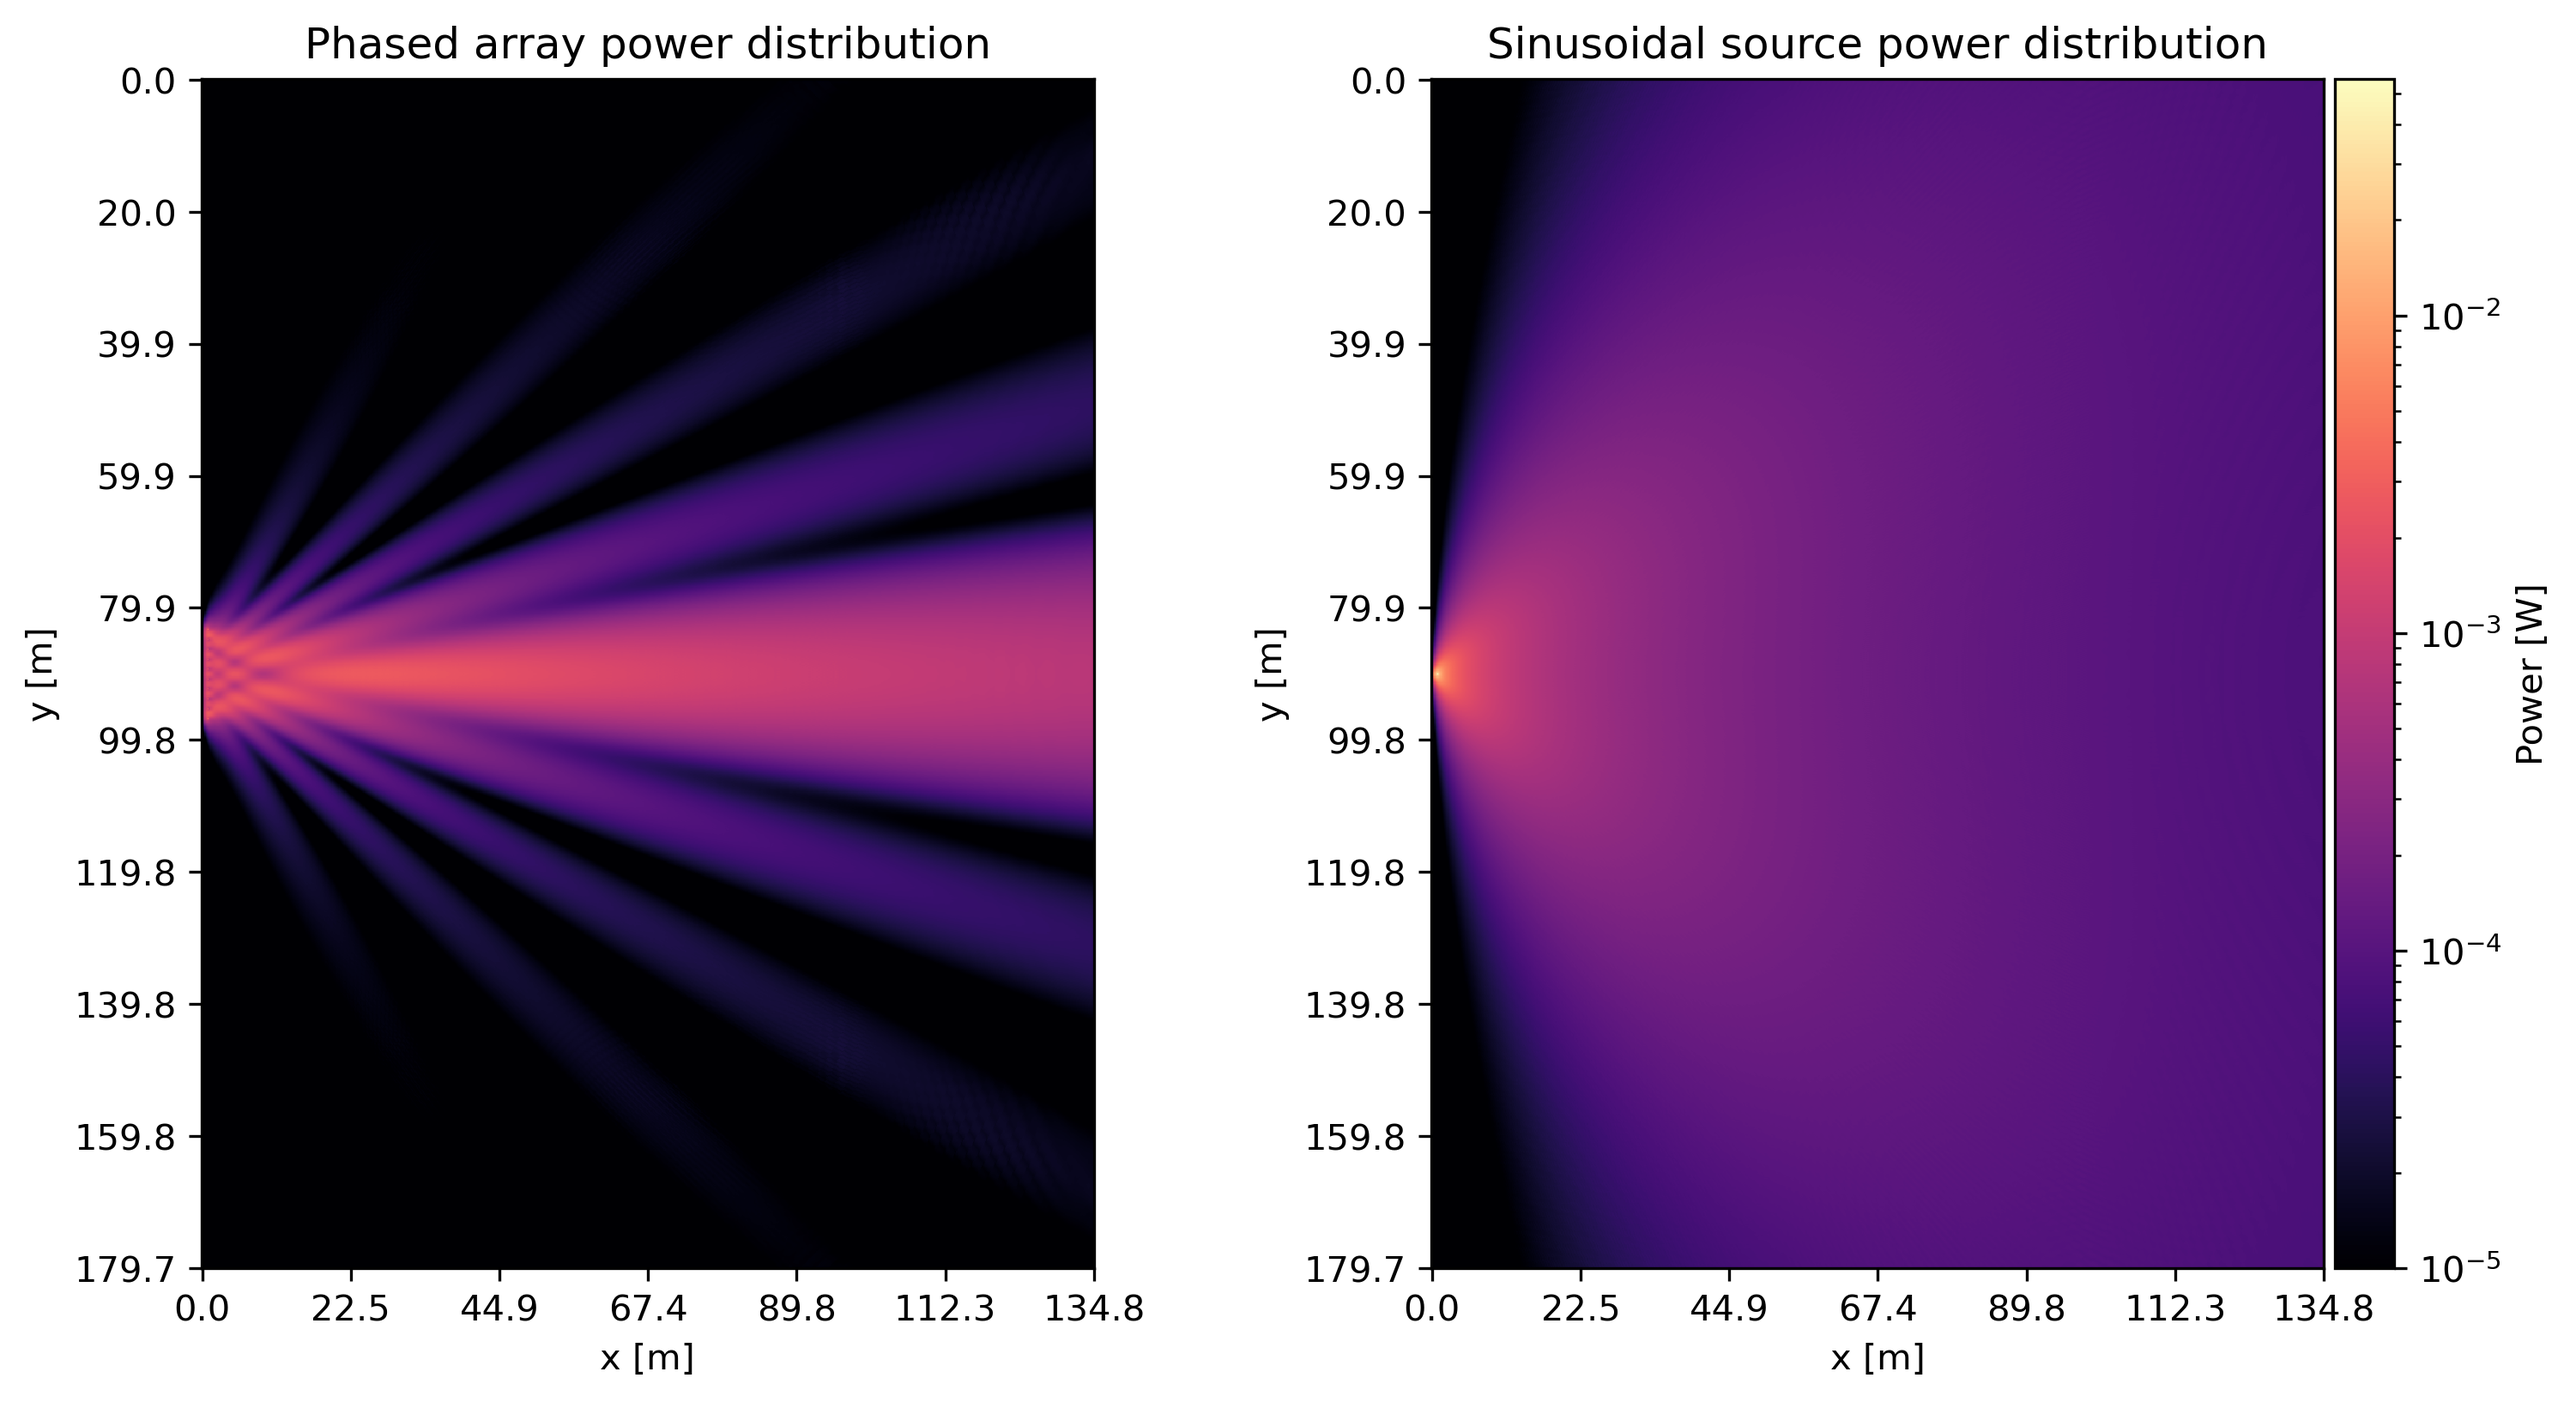
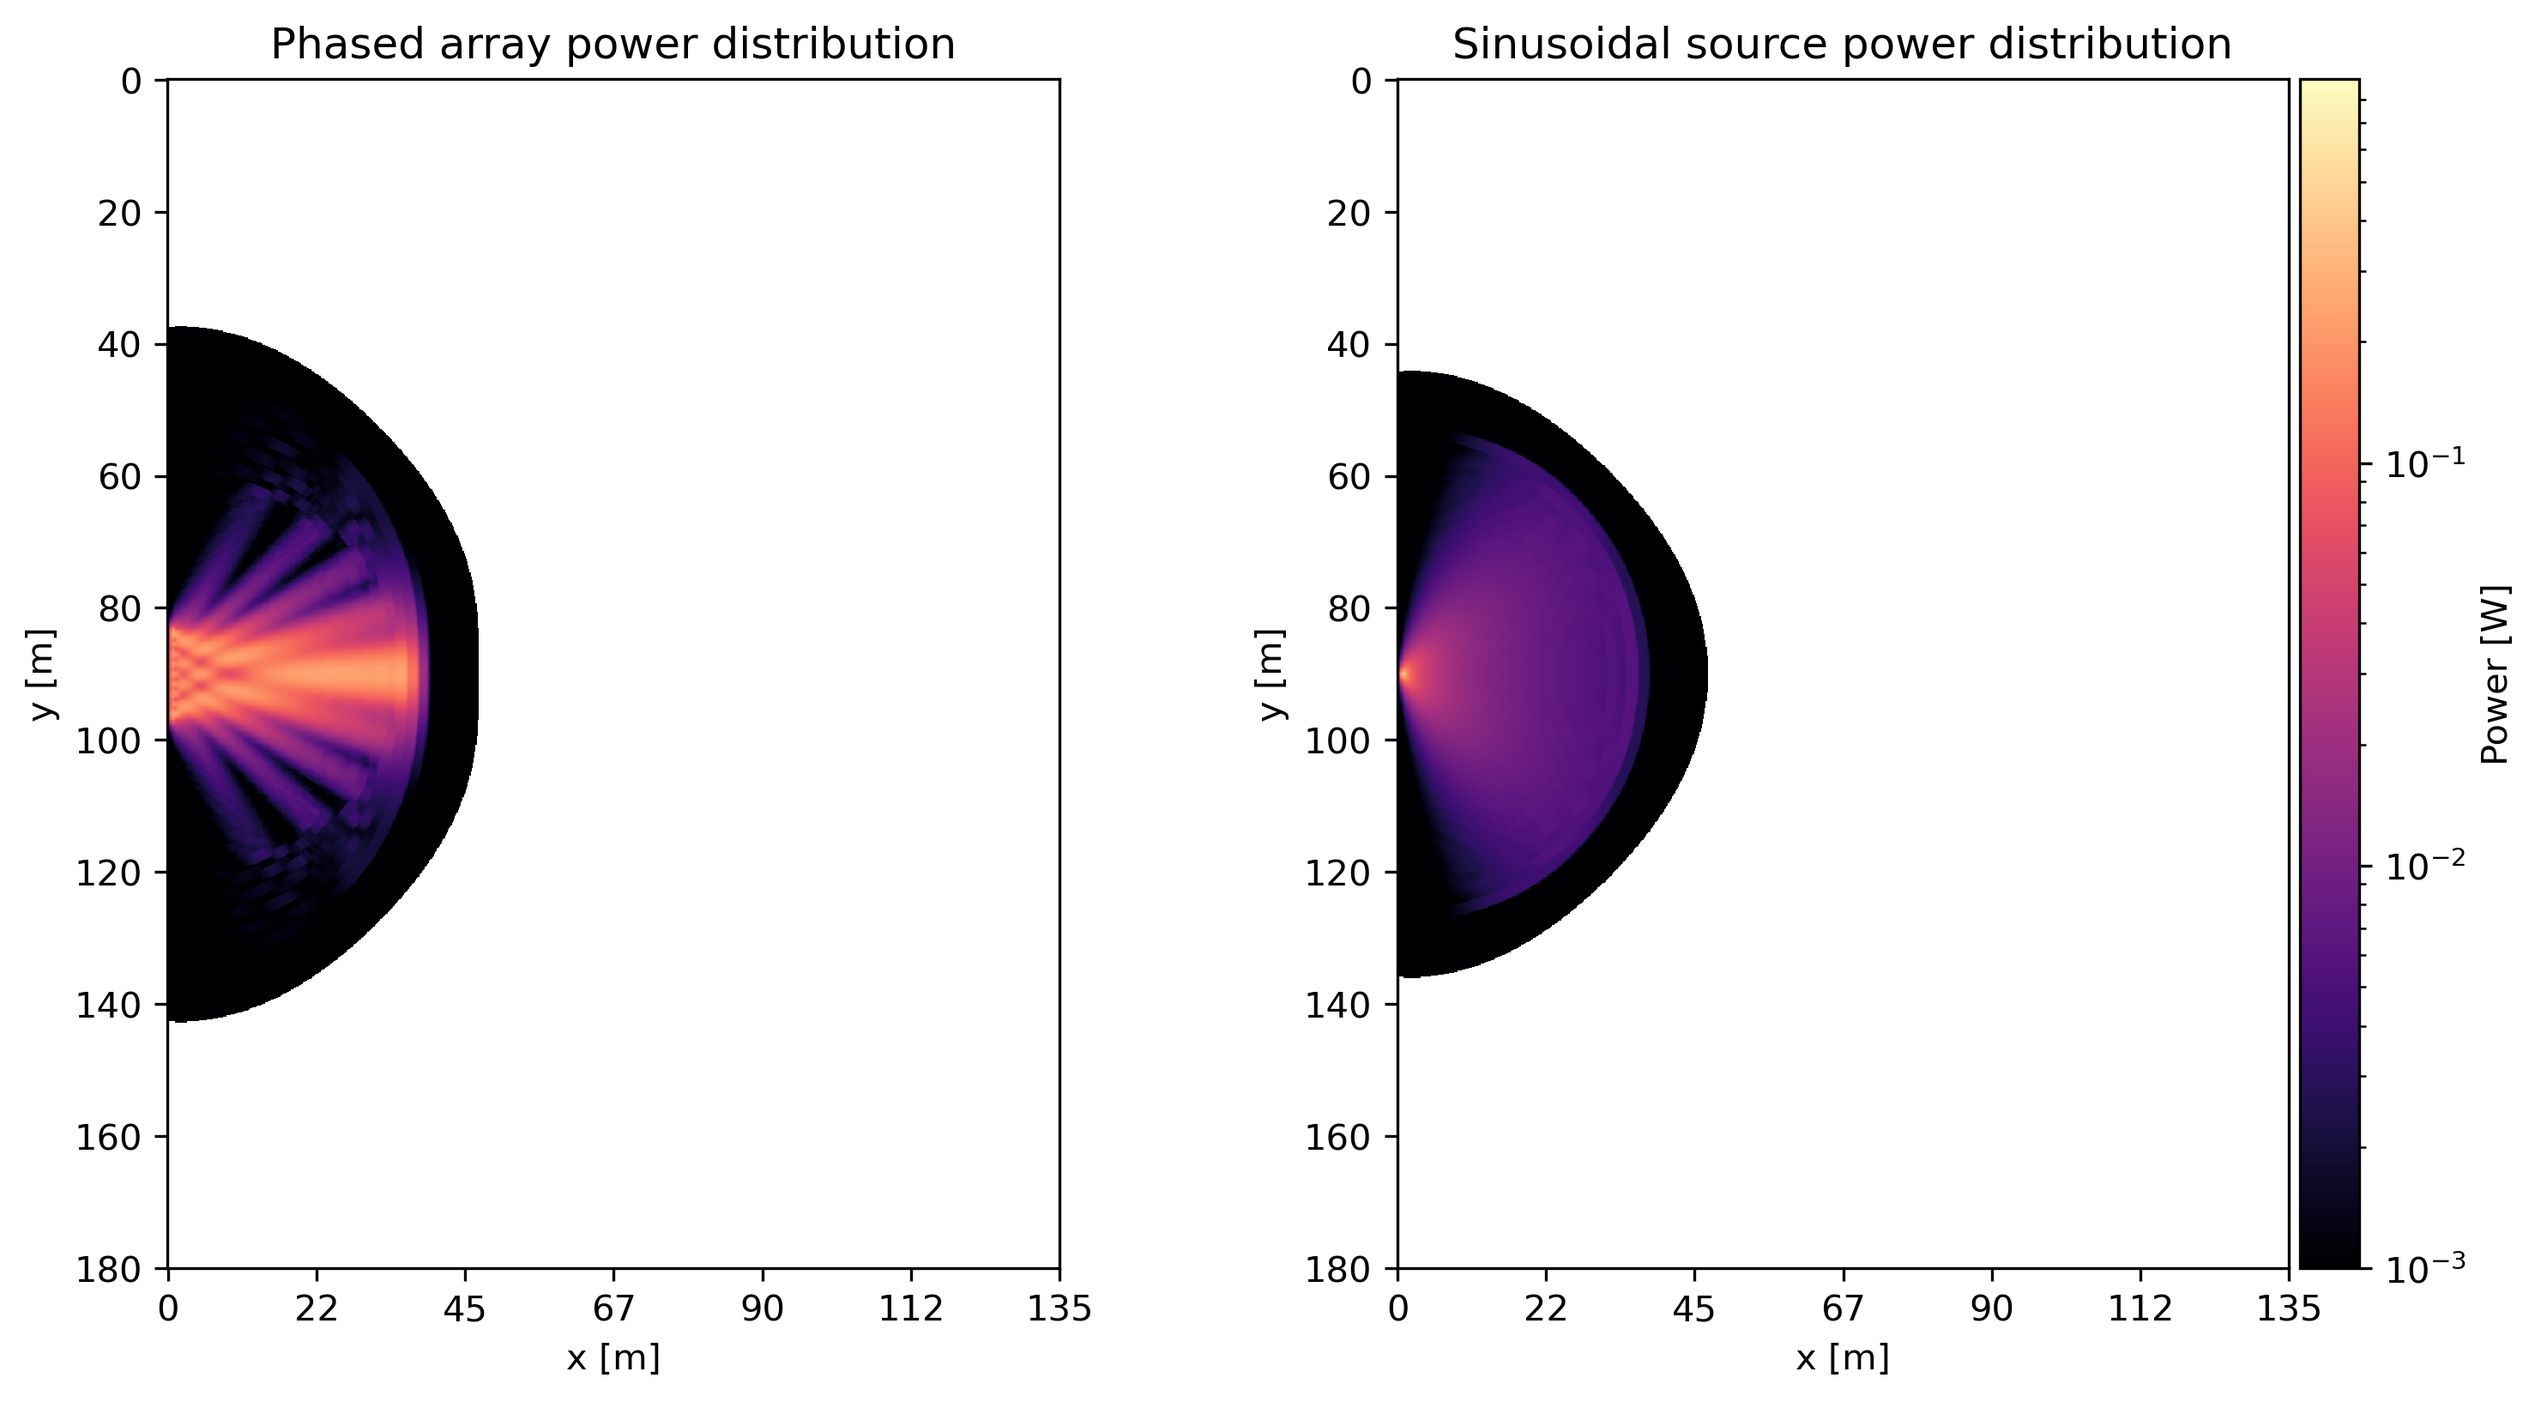
WIP

diff --git a/2D/recieved_power_phased_array_VS_single.py b/2D/recieved_power_phased_array_VS_single.py
@@ -6,8 +6,10 @@ from yee_FDTD_2D import (
     field_to_power,
     e0,
     C_VIDE,
+    compute_mean_poynting_integral,
+    create_material_image,
 )
-from simu_elements import sinusoïdal_point_source
+from simu_elements import sinusoïdal_point_source, create_square_boundery
 
 from matplotlib import pyplot as plt
 
@@ -16,8 +18,9 @@ from matplotlib import pyplot as plt
 TOTAL_X = 300  # in meters
 FREQ_REF = 1e8  # Hz
 Q = 2500  # number of time samples
-TOTAL_CURRENT = 0.01  # A
-MIN_COLOR = 1e-5  # minimum color value for the image
+TOTAL_CURRENT_SINGLE = 0.0402  # A
+TOTAL_CURRENT_ARRAY = 0.095  # A
+MIN_COLOR = 1e-3  # minimum color value for the image
 ANTENNA_RESISTANCE = 50  # [Ohm]
 ANTENNA_EQUIVALENT_HEIGHT = 1  # [m]
 ROI_WIDTH = 135  # [m]
@@ -29,7 +32,7 @@ REFINEMENT_FACTOR = 20  # number of samples per wavelength (min 20)
 DELTA_X = WAVE_LENGTH / REFINEMENT_FACTOR  # in meters
 DELTA_T = 1 / (2 * FREQ_REF * REFINEMENT_FACTOR)  # in seconds
 M = round(TOTAL_X / DELTA_X)  # number of space samples per dimension
-all_time_max = TOTAL_CURRENT / (DELTA_X * DELTA_X) * DELTA_T / e0
+all_time_max = TOTAL_CURRENT_SINGLE / (DELTA_X * DELTA_X) * DELTA_T / e0
 
 print(f"M : {M}, total number of points : {M**2}")
 
@@ -62,7 +65,10 @@ def current_func_phased_array(q: int, previous_J):
             M,
             int(1 / DELTA_X),
             start_index + ii * ELEMENT_SPACING_INDEX,
-            TOTAL_CURRENT / np.sqrt(NUMBER_OF_ELEMENTS), # power for a sinusoidal source is prop to I^2 => divide by sqrt(N)
+            TOTAL_CURRENT_ARRAY
+            / np.sqrt(
+                NUMBER_OF_ELEMENTS
+            ),  # power for a sinusoidal source is prop to I^2 => divide by sqrt(N)
             FREQ_REF,
             DELTA_T,
             DELTA_X,
@@ -77,13 +83,25 @@ def current_func_sinusoidal(q: int, previous_J):
         M,
         int(1 / DELTA_X),
         M // 2,
-        TOTAL_CURRENT,
+        TOTAL_CURRENT_SINGLE,
         FREQ_REF,
         DELTA_T,
         DELTA_X,
     )
 
 
+# phased_array emitted power by poynting
+phased_array_emitted_power = compute_mean_poynting_integral(
+    DELTA_T,
+    DELTA_X,
+    Q,
+    M,
+    1 / FREQ_REF,
+    current_func_phased_array,
+    (0, DELTA_X * (int(M / 2) - ELEMENT_SPACING_INDEX * (NUMBER_OF_ELEMENTS - 1) // 2)+1),
+    (5, DELTA_X * (int(M / 2) + ELEMENT_SPACING_INDEX * (NUMBER_OF_ELEMENTS - 1) // 2)+1),
+)
+print(f"Phased array emitted power : {phased_array_emitted_power:.2e} W")
 Power_phased_array = field_to_power(
     compute_electric_field_amplitude(
         DELTA_T,
@@ -108,6 +126,18 @@ Selected_Field_phased_array = Power_phased_array[
     roi_y_start:roi_y_end, roi_x_start:roi_x_end
 ]
 
+# sinusoidal source emitted power by poynting
+sinusoidal_emitted_power = compute_mean_poynting_integral(
+    DELTA_T,
+    DELTA_X,
+    Q,
+    M,
+    1 / FREQ_REF,
+    current_func_sinusoidal,
+    (0, TOTAL_X / 2 - 10),
+    (20, TOTAL_X / 2 + 10),
+)
+print(f"Sinusoidal source emitted power : {sinusoidal_emitted_power:.2e} W")
 
 Power_sinusoidal = field_to_power(
     compute_electric_field_amplitude(
@@ -134,6 +164,7 @@ max_value = max(
 
 fig, (ax1, ax2) = plt.subplots(1, 2, figsize=(12, 6))
 
+
 im = plot_field(
     ax1,
     DELTA_X,
@@ -142,6 +173,7 @@ im = plot_field(
     min_color_value=MIN_COLOR,
     max_color_value=max_value,
     color_bar=False,
+    
 )
 
 ax1.set_title("Phased array power distribution")
@@ -158,6 +190,24 @@ im = plot_field(
     norm_type="log",
     min_color_value=MIN_COLOR,
     max_color_value=max_value,
+    # image_overlay=create_material_image(
+    #     None,
+    #     None,
+    #     create_square_boundery(
+    #         (0, TOTAL_X / 2 - 5),
+    #         10,
+    #         10,
+    #         (M, M),
+    #         DELTA_X,
+    #         True,
+    #         False,
+    #         thickness=1,
+    #     )[roi_y_start:roi_y_end, roi_x_start:roi_x_end],
+    #     n_max=roi_x_end - roi_x_start,
+    #     m_max=roi_y_end - roi_y_start,
+    #     show_material=True,
+    #     show_edges_of_materials=False,
+    # ),
 )
 
 ax2.set_title("Sinusoidal source power distribution")
@@ -166,5 +216,9 @@ colorbar = ax2.images[-1].colorbar
 if colorbar is not None:
     colorbar.set_label("Power [W]")
 
-plt.savefig("images/phased_array_power_distribution_VS_sinuoidal.png", dpi=300, bbox_inches="tight")
-#plt.show()
+plt.savefig(
+    "images/phased_array_power_distribution_VS_sinuoidal.png",
+    dpi=300,
+    bbox_inches="tight",
+)
+# plt.show()
